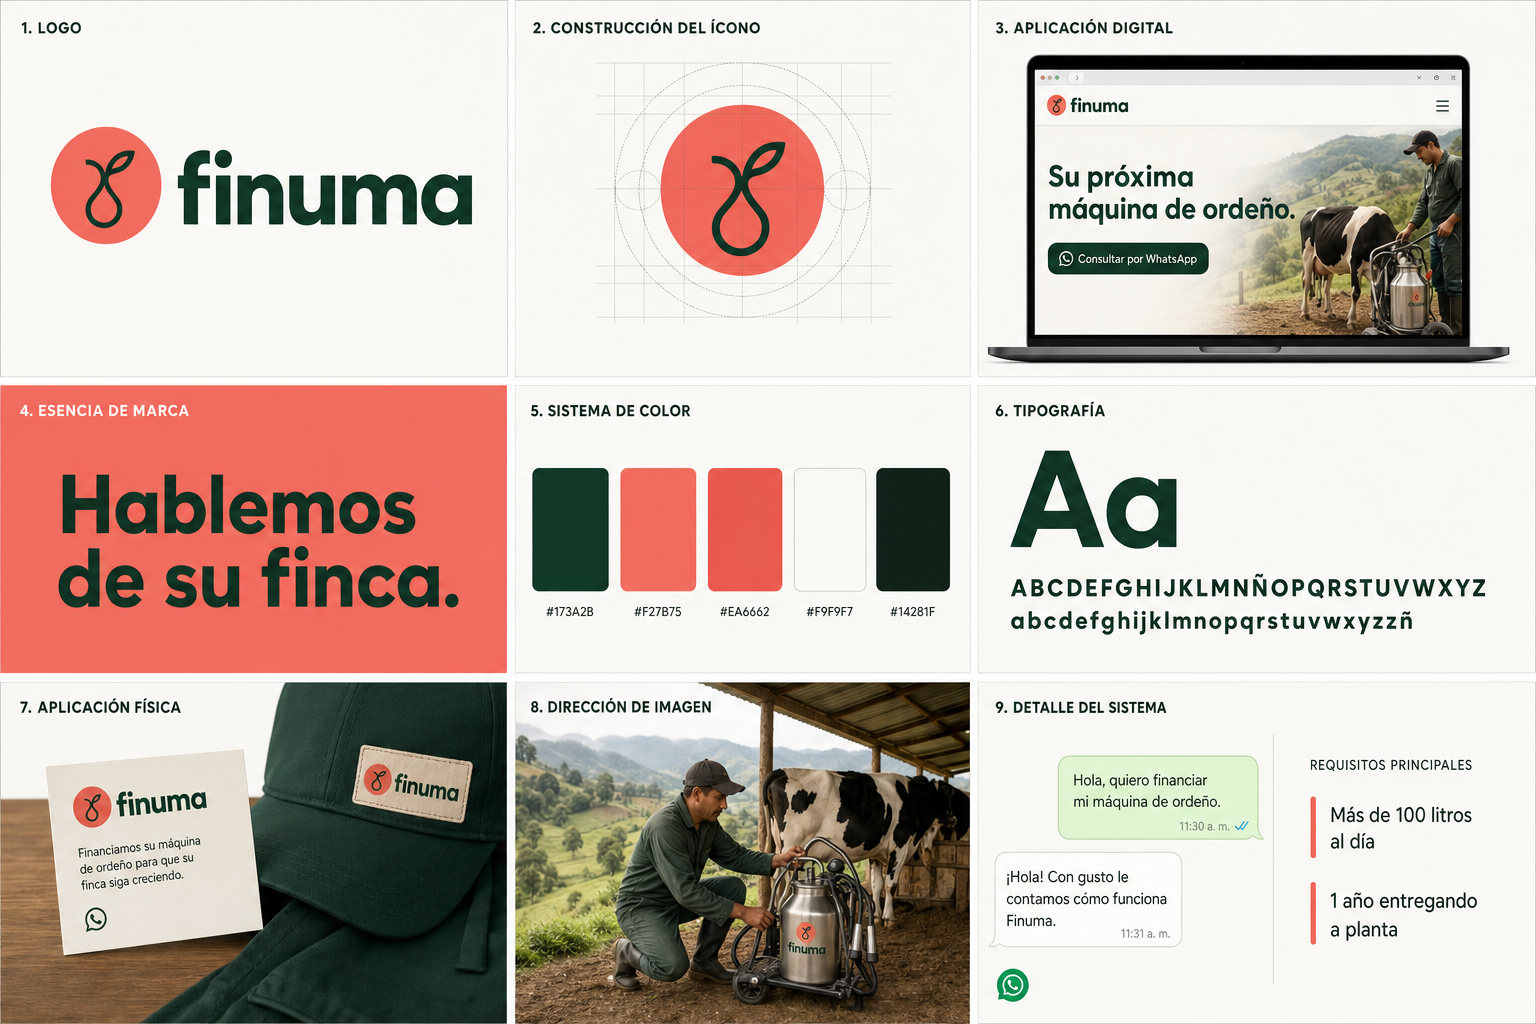
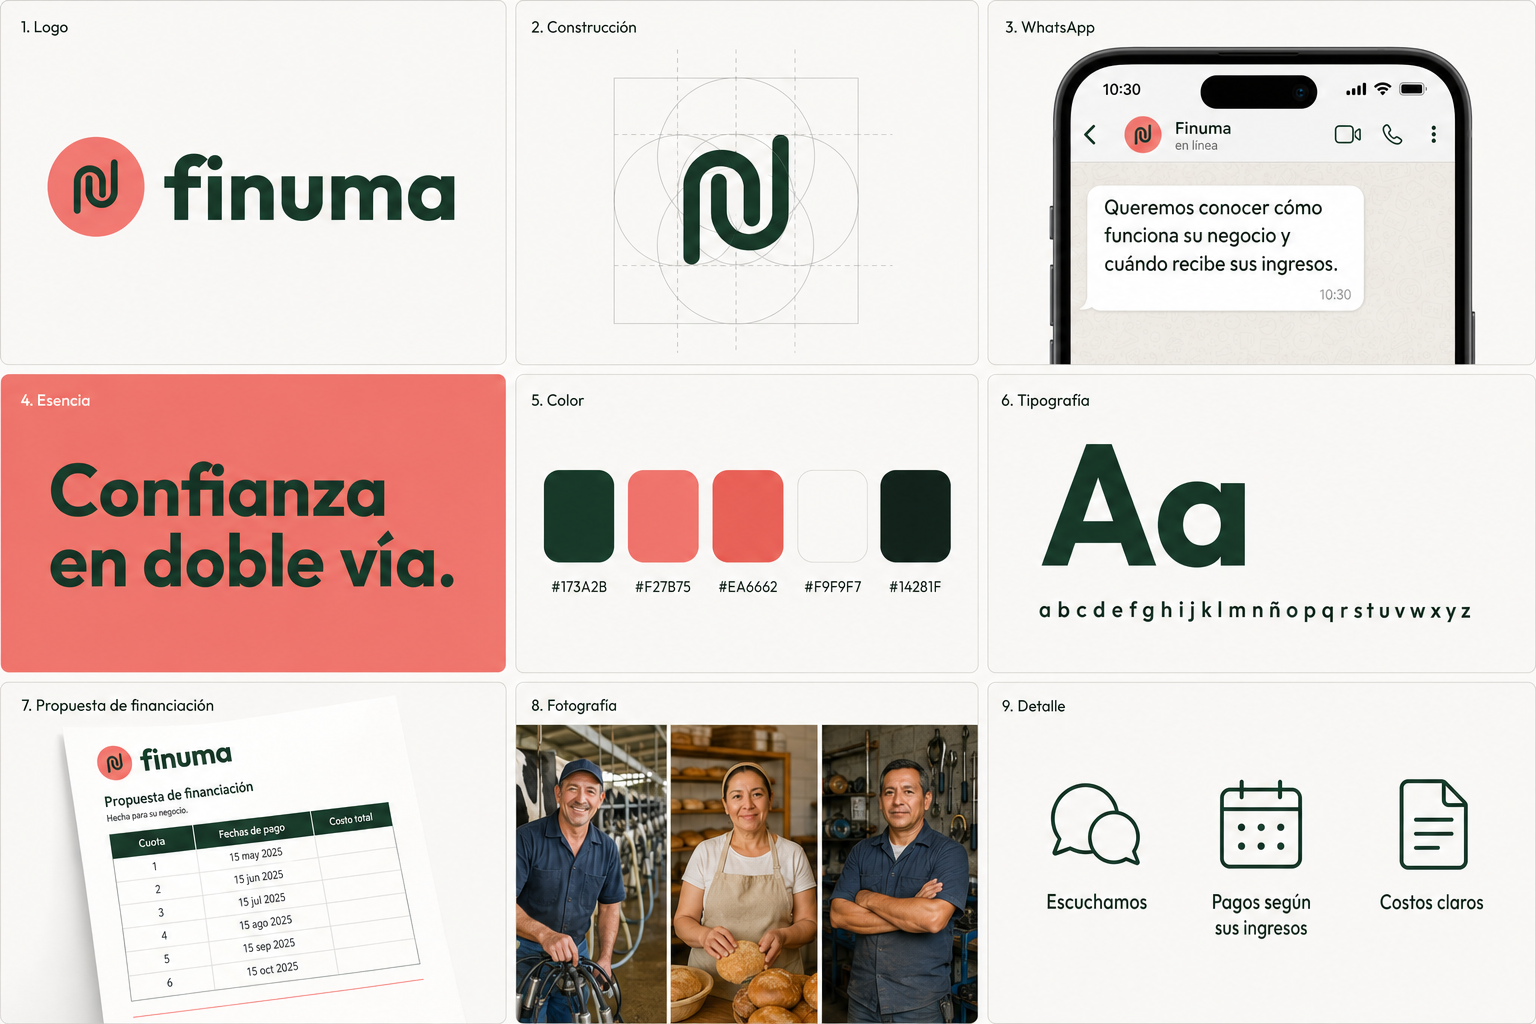
Rehacer la marca de Finuma según el brief: símbolo neutral al sector, tablero y aplicaciones
Claude-Session: https://claude.ai/code/session_0134eW9PVs1Qvr54rb9VzSd4

diff --git a/styles/finuma.css b/styles/finuma.css
@@ -1,4 +1,6 @@
-/* Finuma: colores de marca (tomados de la plantilla de Crezco) */
+/* Finuma: colores y tipografía de marca (base: plantilla de Crezco) */
+@import url("https://fonts.googleapis.com/css2?family=Outfit:wght@400;500;700&display=swap");
+
 :root {
   --finuma-verde: #173A2B;        /* principal: titulares, botones, pie */
   --finuma-verde-tinta: #14281F;  /* texto */
@@ -12,5 +14,7 @@
   --color-primario: var(--finuma-verde);
   --color-acento: var(--finuma-coral);
 
-  --fuente-marca: "Outfit", "Lexend", system-ui, sans-serif;
+  --fuente-marca: "Outfit", system-ui, sans-serif;
+  --fuente-peso-titular: 700;
+  --fuente-peso-texto: 400;
 }

diff --git a/scripts/generar_marca.py b/scripts/generar_marca.py
@@ -1,26 +1,51 @@
-import os,sys,json,base64,urllib.request
-def gen(prompt,out,size="1536x1024",model="gpt-image-2",ref=None):
-    body={"model":model,"prompt":prompt,"size":size,"quality":"high","n":1}
-    req=urllib.request.Request("https://api.openai.com/v1/images/generations",data=json.dumps(body).encode(),headers={"Authorization":"Bearer "+os.environ["OPENAI_API_KEY"],"Content-Type":"application/json"})
-    try:
-        r=json.load(urllib.request.urlopen(req,timeout=600))
-    except urllib.error.HTTPError as e:
-        print(out,e.code,e.read().decode()[:500]);return
-    open(out,"wb").write(base64.b64decode(r["data"][0]["b64_json"]));print("ok",out)
-BASE='''Brand: "Finuma" — financing for milking machines for small and mid-size dairy farmers in Colombia. Spanish-language brand. Audience: rural dairy producers (adult, practical, trust-driven), contacted via WhatsApp. Personality: honest, close, clear, respectful (uses "usted"), modern but rural.
-Exact palette (use only these): deep forest green #173A2B, coral #F27B75, deeper coral accent #EA6662, warm off-white #F9F9F7, near-black green ink #14281F, light rule gray #D9DBD6.
-Typography: bold geometric rounded sans-serif (like Outfit / Lexend) for headlines, tight tracking; same family regular for body. Lowercase wordmark "finuma".
-Logo: lowercase bold geometric wordmark "finuma" in deep forest green, preceded by a coral circle symbol containing a simple forest-green mark that fuses a milk drop with a small upward sprout/growth line (financing that helps the farm grow). Simple, flat, scalable, no gradients.'''
-jobs={
-"board":(BASE+'''
-Create a premium brand-guidelines overview board, 3x3 grid, light warm off-white canvas with clean gutters, light editorial mode, sparse text, all text in Spanish, spelled correctly.
-Panels: 1) logo cover: big symbol + "finuma" wordmark on off-white. 2) logo construction: the coral circle symbol on a thin construction grid showing the milk-drop + sprout geometry. 3) digital application: website hero on a laptop browser with headline "Su próxima máquina de ordeño." and a dark green button "Consultar por WhatsApp". 4) brand essence: large dark green tagline "Hablemos de su finca." on coral background. 5) color system: five swatches labeled #173A2B, #F27B75, #EA6662, #F9F9F7, #14281F. 6) typography: big "Aa" specimen and alphabet row in the geometric sans. 7) physical application: business card and a cap/apron patch with the logo. 8) image direction: photographic, natural light, Colombian highland dairy farm, farmer with a stainless steel portable milking machine under a farm shed, green hills, Holstein cow. 9) system detail: WhatsApp chat bubble, requirement list items with short coral vertical bars "Más de 100 litros al día", "1 año entregando a planta".
-Premium, clean, coherent, no clutter, no tiny fake text.''',"1536x1024"),
-"logo":(BASE+'''
-Create a clean logo sheet on a plain off-white #F9F9F7 background: primary horizontal logo (coral circle symbol + "finuma" wordmark in #173A2B) large at the top center; below it three variants side by side: reversed logo in off-white on a #173A2B tile, symbol only as an app icon (rounded square), and a one-color coral version. Flat vector look, crisp edges, generous whitespace, no other text.''',"1536x1024"),
-"aplicaciones":(BASE+'''
-Create a premium brand applications mockup sheet, 2x3 grid on off-white with clean gutters: 1) mobile phone showing the Finuma website hero "Su próxima máquina de ordeño." with green WhatsApp button; 2) WhatsApp business profile screen with Finuma logo avatar; 3) printed flyer with coral band "Hablemos de su finca." and farm photo; 4) business card front and back; 5) cap and work shirt with embroidered logo; 6) sticker on a stainless steel milking machine can. Realistic but minimal, natural light, consistent logo everywhere, Spanish text spelled correctly, sparse text.''',"1536x1024"),
+"""Genera el tablero de marca de Finuma con la API de imágenes de OpenAI.
+
+El logo es vectorial (brand/logo/*.svg, brand/logo.png). El script usa ese logo como referencia para el tablero y las
+aplicaciones, así el símbolo queda igual en todas las piezas.
+Uso: python3 scripts/generar_marca.py [board] [aplicaciones]
+Requiere OPENAI_API_KEY en el entorno. Guarda las imágenes en brand/.
+"""
+import base64, json, os, subprocess, sys
+
+MODEL = "gpt-image-2"
+KEY = os.environ["OPENAI_API_KEY"]
+
+BASE = '''Brand: "Finuma". Spanish-language financing company in Colombia that funds productive investments for small and mid-size business owners, based on understanding how each business operates, when it sells and what it can pay. First product: financing milking machines for dairy producers; future: bakeries, workshops, small shops. The identity must NOT be tied to milk, cattle or agriculture: no drops, sprouts, leaves, cows.
+Essence: trust built both ways (confianza en doble vía): Finuma listens, understands and explains clearly; the client shares honest information and talks in time. Personality: close, transparent, rigorous, constructive. Avoid: charity, paternalism, easy money, guaranteed growth, bank coldness. Copy rules: address the reader as "usted" (never "tú"); never promise approval, more production, income or growth; no handshake icons, no money/dollar icons, no growth charts.
+Exact palette (use only these): deep forest green #173A2B, coral #F27B75, deeper coral #EA6662, warm off-white #F9F9F7, ink #14281F, light rule gray #D9DBD6.
+Typography: bold geometric rounded sans-serif (like Outfit) for headlines with tight tracking; same family regular for body. Lowercase wordmark "finuma".
+Logo (attached image is the master logo, reproduce it exactly): coral #F27B75 circle with a #173A2B line symbol of two identical rounded hooks, one rotated 180 degrees, hooked into each other (reciprocity: two parties holding each other; the shape also echoes the "nu" in fiNUma), followed by the lowercase bold geometric wordmark "finuma" in #173A2B.'''
+
+JOBS = {
+    "board": (BASE + '''
+Use the attached image as the exact logo; reproduce the symbol and wordmark faithfully, do not redesign them.
+Create a premium brand-guidelines overview board, 3x3 grid, warm off-white canvas with clean gutters, light editorial mode, sparse text, all text in Spanish spelled correctly, small panel labels.
+Panels: 1) "Logo": large logo on off-white. 2) "Construcción": the symbol on a thin geometric construction grid showing the two interlocking arcs. 3) "WhatsApp": phone with a WhatsApp chat: Finuma says "Queremos conocer cómo funciona su negocio y cuándo recibe sus ingresos." 4) Essence: large #173A2B text "Confianza en doble vía." on coral #F27B75 background. 5) "Color": swatches labeled #173A2B, #F27B75, #EA6662, #F9F9F7, #14281F. 6) "Tipografía": big "Aa" specimen and alphabet row. 7) "Propuesta de financiación": printed one-page proposal with logo and a clear table "Cuota", "Fechas de pago", "Costo total". 8) "Fotografía": triptych of dignified, natural-light documentary portraits of business owners at work in Colombia: a dairy producer in a milking shed, a baker at her bakery, a mechanic in his workshop. 9) "Detalle": three simple line icons in #173A2B (listen/chat, calendar, document) with labels "Escuchamos", "Pagos según sus ingresos", "Costos claros".
+Premium, coherent, no clutter, no tiny fake text.''', "logo"),
+    "aplicaciones": (BASE + '''
+Use the attached image as the exact logo; reproduce the symbol and wordmark faithfully, do not redesign them.
+Create a premium brand applications mockup sheet, 2x3 grid on off-white with clean gutters, Spanish text spelled correctly, sparse text: 1) phone showing the Finuma website hero "Financiamos su próxima inversión." with a #173A2B button "Conversemos por WhatsApp"; 2) WhatsApp business profile with the logo avatar; 3) printed product sheet "Financiación de máquinas de ordeño" with steps 1-2-3 and coral accents; 4) partner presentation slide on a laptop: "Una financiación que conoce su negocio."; 5) business cards front and back; 6) tote bag or shop window sticker at a small bakery with the logo. Realistic, minimal, natural light, identical logo everywhere.''', "logo"),
 }
-os.makedirs("brand",exist_ok=True)
-for k in (sys.argv[1:] or list(jobs)):
-    p,s=jobs[k]; gen(p,"brand/"+k+".png",s)
+
+def call(prompt, ref):
+    if ref:
+        cmd = ["curl", "-sS", "https://api.openai.com/v1/images/edits", "-H", "Authorization: Bearer " + KEY,
+               "-F", "model=" + MODEL, "--form-string", "prompt=" + prompt, "-F", "size=1536x1024", "-F", "quality=high",
+               "-F", "image[]=@brand/%s.png" % ref]
+    else:
+        body = json.dumps({"model": MODEL, "prompt": prompt, "size": "1536x1024", "quality": "high"})
+        cmd = ["curl", "-sS", "https://api.openai.com/v1/images/generations", "-H", "Authorization: Bearer " + KEY,
+               "-H", "Content-Type: application/json", "-d", body]
+    for _ in range(3):
+        out = subprocess.run(cmd, capture_output=True, text=True, timeout=900).stdout
+        try:
+            return base64.b64decode(json.loads(out)["data"][0]["b64_json"])
+        except Exception:
+            print("reintentando:", out[:300])
+    raise SystemExit("falló")
+
+os.makedirs("brand", exist_ok=True)
+for k in (sys.argv[1:] or list(JOBS)):
+    p, ref = JOBS[k]
+    open("brand/%s.png" % k, "wb").write(call(p, ref))
+    print("ok brand/%s.png" % k)

diff --git a/README.md b/README.md
@@ -1,20 +1,21 @@
 # Finuma
 
-Financiación de máquinas de ordeño para productores lecheros en Colombia.
+Financiación de inversiones productivas a partir del conocimiento de cada negocio. Primer producto: máquinas de ordeño.
 
 ## Marca
 
 - `styles/finuma.css`: colores de marca como variables CSS.
 - `brand/paleta.svg`: paleta de colores.
 - `brand/board.png`: tablero de marca.
+- `brand/logo/*.svg`: símbolo vectorial (coral, verde y línea). Dos ganchos iguales que se sostienen entre sí: confianza en doble vía.
 - `brand/logo.png`: logo y variantes.
 - `brand/aplicaciones.png`: aplicaciones (web, WhatsApp, volante, tarjetas, gorra, sticker).
-- `scripts/generar_marca.py`: genera el tablero de marca, el logo y las aplicaciones con la API de imágenes de OpenAI. Lee `OPENAI_API_KEY` del entorno y guarda las imágenes en `brand/`.
+- `scripts/generar_marca.py`: genera el tablero de marca y las aplicaciones a partir del logo con la API de imágenes de OpenAI. Lee `OPENAI_API_KEY` del entorno y guarda las imágenes en `brand/`.
 
 ```bash
 export OPENAI_API_KEY=...   # o cárgala desde tu .env
-python3 scripts/generar_marca.py            # board, logo y aplicaciones
-python3 scripts/generar_marca.py logo       # solo uno
+python3 scripts/generar_marca.py            # tablero y aplicaciones
+python3 scripts/generar_marca.py board      # solo uno
 ```
 
 | Color | Hex | Uso |
@@ -26,4 +27,4 @@ python3 scripts/generar_marca.py logo       # solo uno
 | Crema | `#F9F9F7` | Fondo |
 | Línea | `#D9DBD6` | Separadores |
 
-Tipografía: sans geométrica tipo Outfit (por confirmar).
+Tipografía: Outfit (Google Fonts, licencia OFL). Titulares 700, texto 400.
